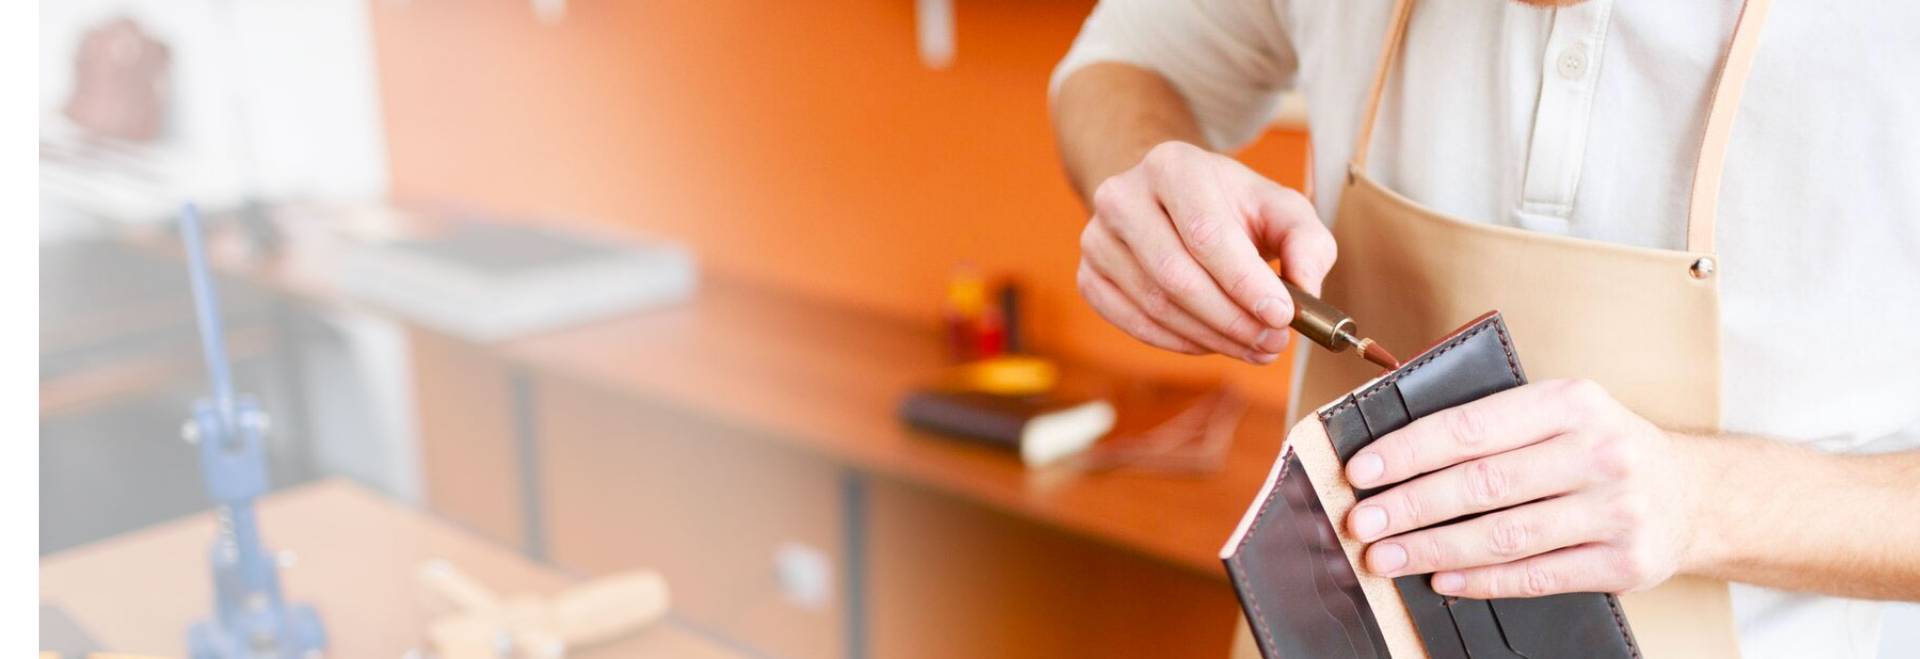
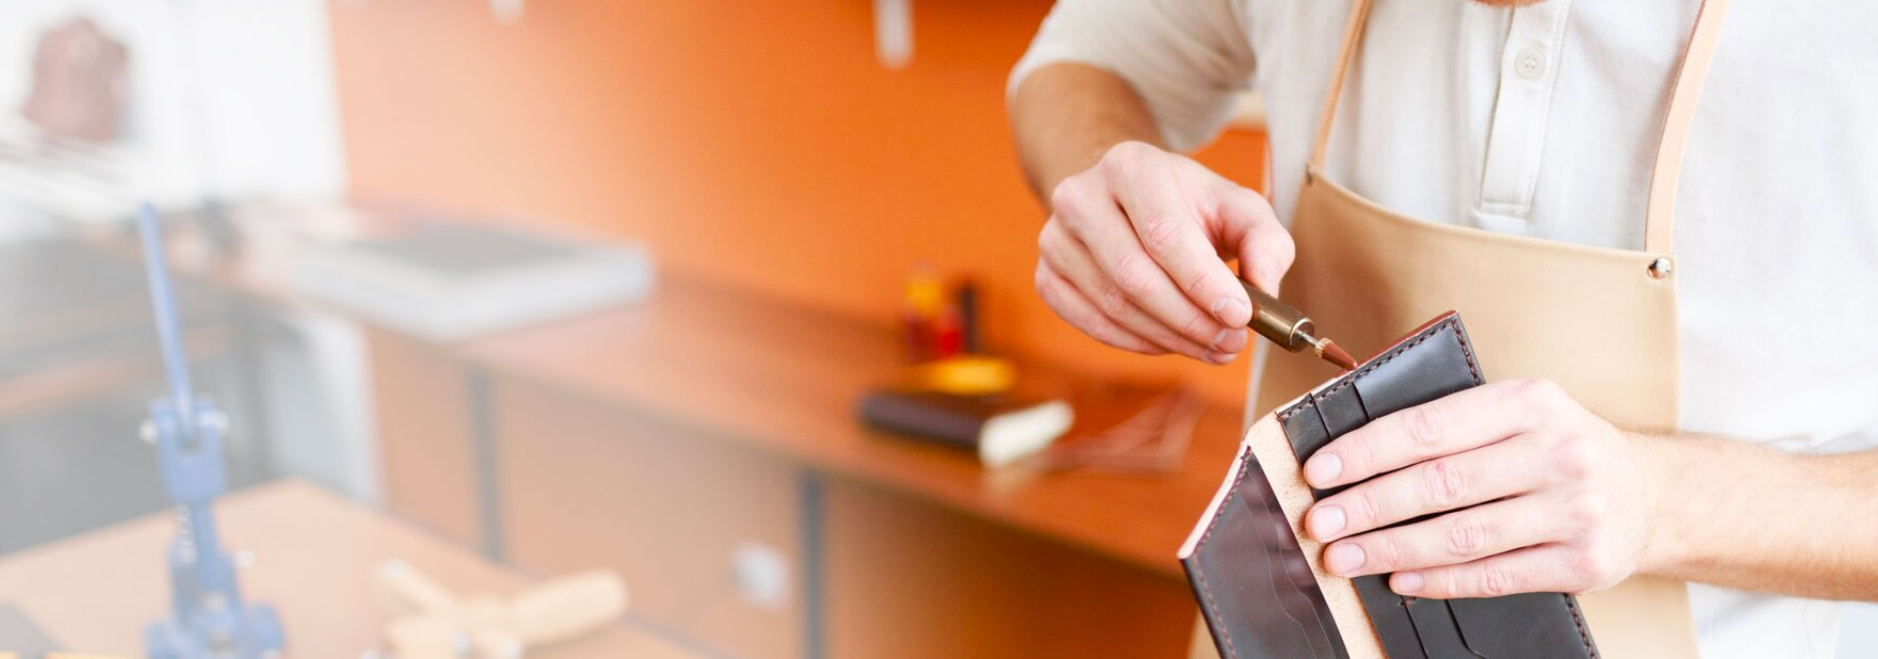
quem somos

diff --git a/que-somos.html b/que-somos.html
@@ -6,6 +6,7 @@
     <meta http-equiv="X-UA-Compatible" content="IE=edge">
     <meta name="viewport" content="width=device-width, initial-scale=1.0">
     <link rel="stylesheet" href="./assets/css/style.css">
+    <link rel="stylesheet" href="./assets/css/forms.css">
     <link rel="shortcut icon" href="./assets/images/icon.png" type="image/x-icon">
     <title>Secoli | Brindes e Promocionais</title>
     <meta property="og:title" content="Secoli | Brindes e Promocionais" />
@@ -49,23 +50,25 @@
 </head>
 
 <body>
-    <div app-data="./db.json">
+    <div app-data="./media/db.json">
         <div app-include="./header.html"></div>
 
-        <div class="full">
+        <div class="full about__banner">
             <div class="container">
                 <div class="grid c-1 lg-c-2">
                     <div>
-                        <h1>
+                        <h1 class="title">
                             Secoli Brindes,
                             conectando empresas, parceiros e pessoas.
                         </h1>
-                        <p>
+                        <div class="space"></div>
+                        <p class="text">
                             Priorizamos plena satisfação de seus clientes através do compromisso com o 
                             atendimento personalizado, a excelência na 
                             qualidade de seus produtos e o respeito com o cumprimento dos prazos acordados.
                         </p>
-                        <a href="http://" target="_blank" rel="noopener noreferrer">
+                        <div class="space"></div>
+                        <a href="http://" target="_blank" rel="noopener noreferrer" class="btn gradient-1">
                             SOLICITAR UM ORÇAMENTO
                         </a>
                     </div>
@@ -75,44 +78,48 @@
 
         <div class="full">
             <div class="container">
+                <div class="long-space"></div>
                 <div class="slider__blog">
-                    <div class="slider__blog__inner">
-                        <div class="lider__blog__iten">
-                            <img src="" alt="">
-                            <h2>
-                                Sustentabilidade, faz parte da nossa missão.
+                    <div class="slider__blog__inner swiper-wrapper">
+                        <div class="slide__blog__iten swiper-slide" app-repeat="blog">
+                            <img src="{{image}}" alt="{{title}}">
+                            <div class="space"></div>
+                            <h2 class="title">
+                                {{title}}
                             </h2>
-                            <p>
-                                Em uma época que se fala tanto de sustentabilidade, e que tantos conceitos novos 
-                                e revolucionários são cotidianamente trazidos à luz, nos perguntamos: 
-                                será que as respostas, ou, pelo menos, parte delas, para os imensos 
-                                problemas ecológicos que assolam o planeta não se encontram, talvez, 
-                                em conceitos e atitudes muito mais simples do que supomos?
+                            <p class="text">
+                                {{description}}
                             </p>
-                            <a href="">
+                            <div class="space"></div>
+                            <a href="{{link}}" class="btn gradient-1">
                                 VEJA MAIS
                             </a>
+                            <div class="space"></div>
                         </div>
                     </div>
-                    <div>
+                    <div class="slider__blog__pev">
                         <i class="fa-solid fa-angle-left"></i>
                     </div>
-                    <div>
+                    <div class="slider__blog__next">
                         <i class="fa-solid fa-angle-right"></i>
                     </div>
                 </div>
+                <div class="long-space"></div>
             </div>
         </div>
 
         <div class="full">
             <div class="container">
-                <small class="text-center">
+                <div class="space"></div>
+                <div class="text text-center">
                     Pioneirismo e comprometimento
-                </small>
-                <h2 class="text-center">
-                    Especializada em criar produtos personalizados e exclusivos 
+                </div>
+                <div class="space"></div>
+                <h2 class="title text-center">
+                    Especializada em criar produtos <br> personalizados e exclusivos 
                 </h2>
-                <div>
+                <div class="space"></div>
+                <div class="w-2">
                     <p>
                         Além de ter conquistado o equilíbrio entre a mais moderna tecnologia e o cuidado da manufatura artesanal, 
                         a Secoli se diferencia também por sua versatilidade e especialidade em criar produtos personalizados exclusivos, 
@@ -131,41 +138,44 @@
 
         <div class="full">
             <div class="container">
+                <div class="long-space"></div>
                 <div class="grid c-1 lg-c-3">
                     <div>
-                        <h3>
+                        <h3 class="title__commnet">
                             NOSSA <br> MISSÃO
                         </h3>
-                        <p>
+                        <p class="text__commnet">
                             “Manter um ambiente de prosperidade material onde possamos desenvolver o potencial 
                             humano através da criação, confecção e comercialização de produtos com alto padrão de 
                             qualidade e preço justo, priorizando, o respeito ao cliente interno, externo e ao meio ambiente.”
                         </p>
                     </div>
                     <div>
-                        <h3>
+                        <h3 class="title__commnet">
                             NOSSA <br> VISÃO
                         </h3>
-                        <p>
+                        <p class="text__commnet">
                             “Nos tornar a empresa referência em Qualidade, Criatividade e 
                             Sustentabilidade no mercado de produtos promocionais.”
                         </p>
                     </div>
                     <div>
-                        <h3>
+                        <h3 class="title__commnet">
                             NOSSOS <br> VALORES
                         </h3>
-                        <p>
+                        <p class="text__commnet">
                             “Equilíbrio, Ética, Inovação, Justiça e Sustentabilidade.”
                         </p>
                     </div>
                 </div>
+                <div class="long-space"></div>
             </div>
         </div>
 
         <div app-include="./footer.html"></div>
     </div>
     <script src="./assets/js/app.js"></script>
+    <script src="./assets/js/cart.js"></script>
     <script src="./assets/js/main.js"></script>
 </body>
 

diff --git a/assets/css/forms.css b/assets/css/forms.css
@@ -214,9 +214,10 @@ h6 {
     font-size: 18px;
     border-left: 1px solid #CCC;
     height: 48px;
-    padding-left: 16px; 
+    padding-left: 16px;
     background-color: transparent;
 }
+
 .item__in__cart__add {
     background-color: #05f;
     color: #FFF;
@@ -230,5 +231,98 @@ h6 {
     gap: 8px;
     text-transform: uppercase;
     font-weight: bolder;
+}
 
+.about__banner {
+    background-image: url(../../media/paginas/sobre-nos/banner.png);
+    background-position: center center;
+    background-size: cover;
+}
+
+.about__banner .grid {
+    min-height: 500px;
+    align-items: center;
+}
+
+.about__banner .text {
+    color: #FFF;
+    text-shadow: 1px 1px 0px #0001;
+}
+
+.w-2 {
+    columns: 2;
+    color: #CCC;
+    line-height: 22px;
+}
+
+.slider__blog {
+    overflow: hidden;
+    position: relative;
+}
+
+.slider__blog__next {
+    position: absolute;
+    height: 100%;
+    display: flex;
+    z-index: 999;
+    align-items: center;
+    justify-content: center;
+    top: 0;
+    right: 0;
+}
+
+.slider__blog__pev {
+    position: absolute;
+    height: 100%;
+    display: flex;
+    z-index: 999;
+    align-items: center;
+    justify-content: center;
+    top: 0;
+    left: 0;
+}
+
+
+.slide__blog__iten {
+    border-radius: 16px;
+    box-shadow: 0 0 6px #0001;
+    height: 100%;
+
+}
+
+.slide__blog__iten img {
+    display: block;
+    border-radius: 16px;
+    overflow: hidden;
+    height: 200px;
+    object-fit: cover;
+    width: 100%;
+}
+
+.slide__blog__iten h2,
+.slide__blog__iten p,
+.slide__blog__iten a {
+    margin: 0 48px;
+}
+
+.title__commnet {
+    display: block;
+    background-image: url(../../media/paginas/sobre-nos/balao.svg);
+    background-repeat: no-repeat;
+    background-position: center center;
+    display: flex;
+    justify-content: center;
+    align-items: center;
+    min-height: 200px;
+    text-align: center;
+}
+
+.text__commnet {
+    display: flex;
+    border-radius: 16px;
+    align-items: center;
+    justify-content: center;
+    box-shadow: 0 0 7px #0001;
+    min-height: 300px;
+    padding: 48px;
 }

diff --git a/assets/js/cart.js b/assets/js/cart.js
@@ -1,0 +1,26 @@
+
+new Swiper('.slider__blog', {
+    direction: 'horizontal',
+    loop: true,
+    autoplay: {
+        delay: 3000,
+    },
+    slidesPerView: 1,
+    spaceBetween: 40,
+    navigation: {
+        nextEl: '.slider__blog__next',
+        prevEl: '.slider__blog__pev',
+    },
+    breakpoints: {
+        640: {
+            slidesPerView: 2,
+            spaceBetween: 40
+        }
+    }
+});
+
+// swiper
+// swiper-wrapper
+// swiper-slide
+
+
